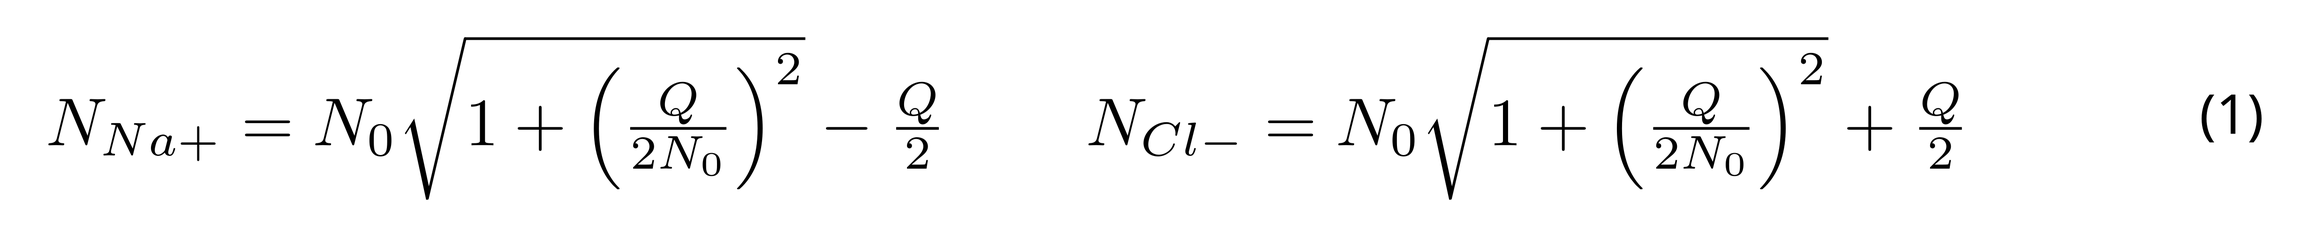
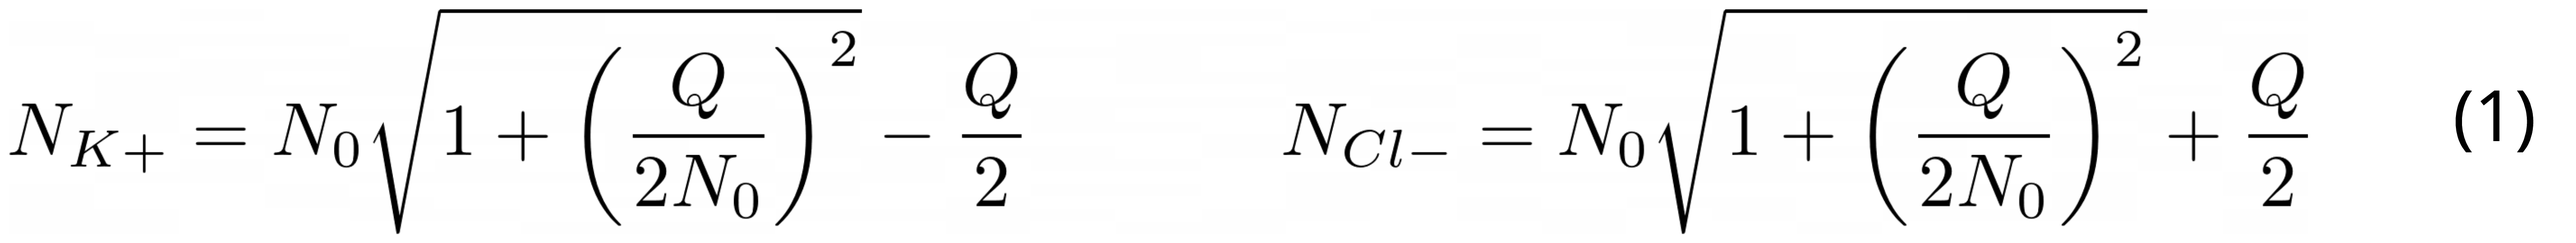
from 100 mM NaCl and ph 7.0 to 150 mM KCL ph 7.2

diff --git a/md_setup/README.md b/md_setup/README.md
@@ -40,9 +40,9 @@ The Φ,Ψ-adjusted residues are colored magenta
 
 ### 2. MD setup
 
-The NCP structure with linearly extended histone tails was protonated to match the experimental pH 7 using program
-PDB2PQR [(Dolinsky T. J., et al. (2007))](https://www.ncbi.nlm.nih.gov/pmc/articles/PMC1933214/). The Na+ and Cl- ions
-have been added to neutralize the system and to reproduce 100 mM NaCl.[^1] For Na+ and Cl- we used the default
+The NCP structure with linearly extended histone tails was protonated to match the experimental pH 7.2 using program
+PDB2PQR [(Dolinsky T. J., et al. (2007))](https://www.ncbi.nlm.nih.gov/pmc/articles/PMC1933214/). The K+ and Cl- ions
+have been added to neutralize the system and to reproduce 150 mM KCl.[^1] For K+ and Cl- we used the default
 Joung/Cheatham monovalent ion parameters
 following [(Kolesnikov E.S., et al., (2021))](https://pubs.acs.org/doi/10.1021/acs.jctc.1c00332).[^2] To calculate the
 number of ions to be added, we used the SLTCAP
@@ -123,7 +123,7 @@ of system. The reason is that the Langevin thermostat applies the random force t
 actual motional modes (cf. this [Amber forum thread](http://archive.ambermd.org/201512/0039.html)
 , [(Dunweg B., (1993))](https://aip.scitation.org/doi/10.1063/1.465444)). [^7]
 
-[^1]: We used Na+ in accordance with the experimental practice (instead of the physiologically relevant K+)
+[^1]: We used physiologically relevant K+ (instead of Na+ used in experimental practice)
 [^2]: We choose not to use CUFIX since it has been parameterized with TIP3P water (advice by Alexey O.)
 [^3]: Apparently, *SolvateOct* contains a bug – portions of the NCP are “sticking out” of the truncated octahedral box.
 We are currently discussing this issue with David Case and have developed an alternative algorithm to resolve this
